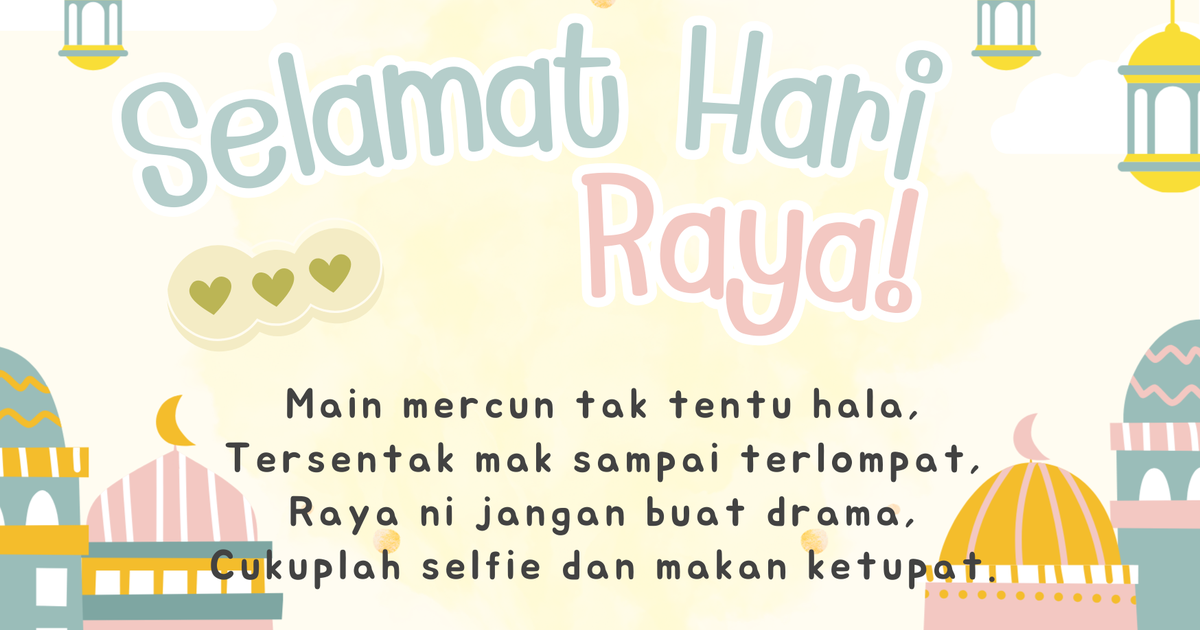
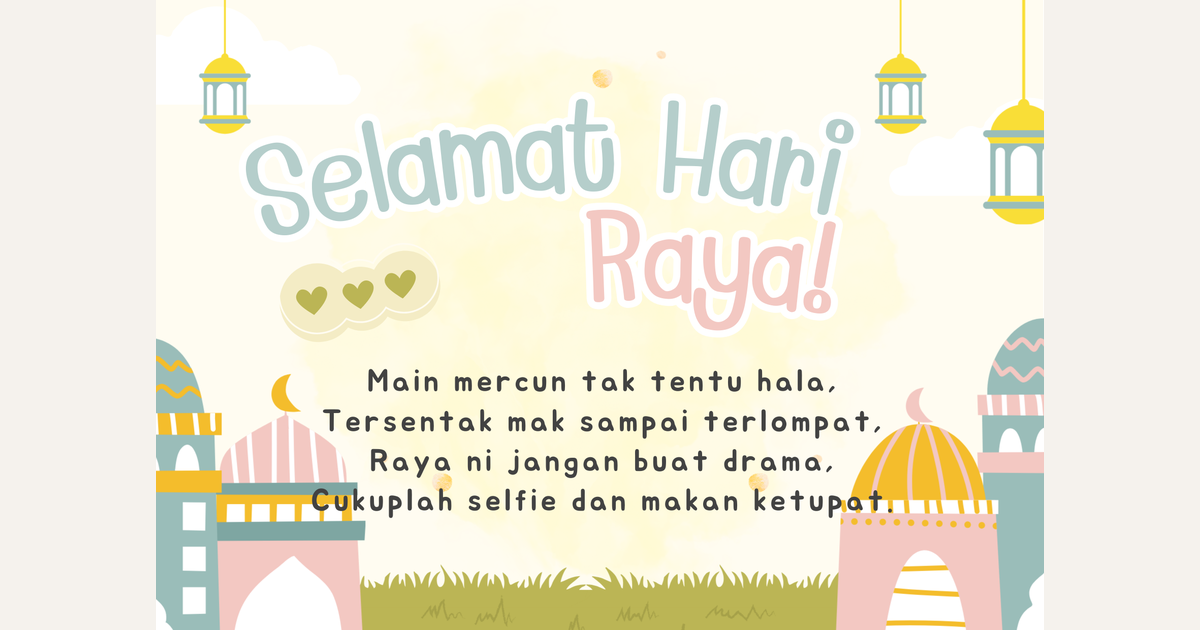
update gif

diff --git a/src/server/linkUtils.ts b/src/server/linkUtils.ts
@@ -66,5 +66,5 @@ export function buildKadRayaImagePath(id: string, useGif: boolean): string {
 
 export function buildKadRayaOgImagePath(id: string): string {
   const index = pickKadRayaImageIndex(id);
-  return `/assets/kad-raya-og/${index}.png`;
+  return `/assets/kad-raya-og-v2/${index}.png`;
 }
